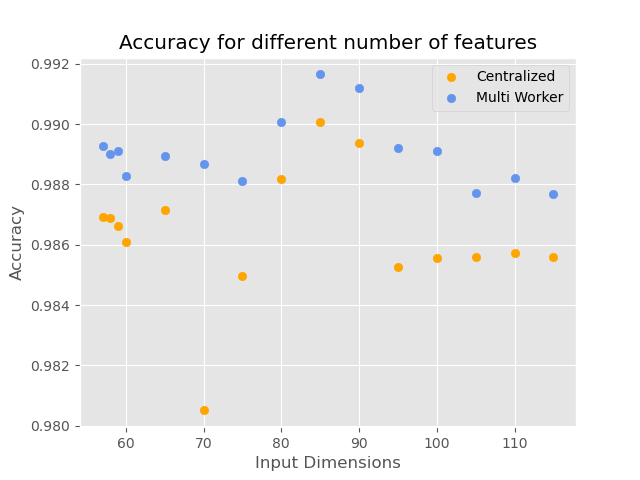
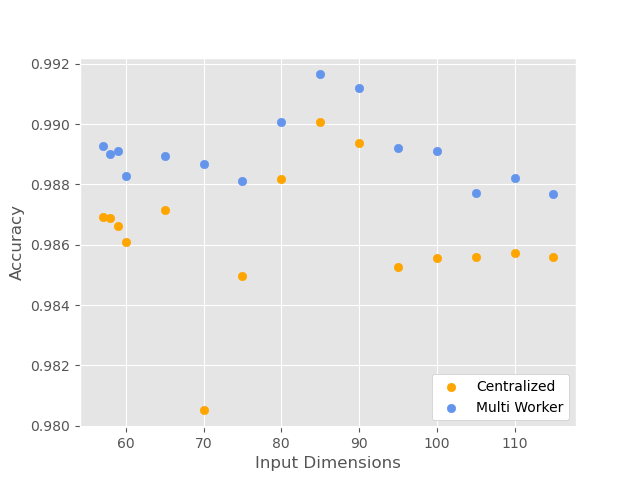
updated some perfromance figs to improve legend

Changed region(s): [[0.1875, 0.0625, 0.875, 0.2188], [0.6562, 0.7812, 0.9062, 0.875], [0.6875, 0.1562, 0.7188, 0.2188]]

diff --git a/anomaly-detection/MatpltlibGen/figMaker.py b/anomaly-detection/MatpltlibGen/figMaker.py
@@ -92,6 +92,7 @@ def precision_plt(plt):
     xlistp = xList
     ylistp = centPrecision
     precision.plot(xlistp, ylistp)
+    precision.legend(loc="lower right", framealpha=1.0, facecolor='white')
     precision.savefig(f"cent_precision_e50_lr0001_bs128.png")
     print("cent precision")
 
@@ -108,6 +109,7 @@ def recall_plt(plt):
     xlistr = xList
     ylistr = centRecall
     recall.plot(xlistr, ylistr)
+    recall.legend(loc="lower right", framealpha=1.0, facecolor='white')
     recall.savefig(f"cent_recall_e50_lr0001_bs128.png")
     print("cent recall")
 
@@ -124,6 +126,7 @@ def f1_plt(plt):
     xlistf = xList
     ylistf = centF1
     f1.plot(xList, multiF1)
+    f1.legend(loc="lower right", framealpha=1.0, facecolor='white')
     f1.savefig(f"cent_f1_e50_lr0001_bs128.png")
     print("cent F-measure")
 
@@ -133,7 +136,7 @@ def accuracy_plt_multi(plt):
     plt.style.use("ggplot")
     title = "Accuracy"
     acc = plt
-    acc.title(f"{title} for different number of features")
+    acc.title("")#(f"{title}")# for different number of features")
     acc.xlabel("Input Dimensions")
     acc.ylabel(f"{title}")
     half = len(xList) >> 1
@@ -144,7 +147,7 @@ def accuracy_plt_multi(plt):
     #acc.plot(xlista, ylistmulti, label="Multi Worker")
     acc.scatter(xlista, ylista, c="orange", label="Centralized")
     acc.scatter(xlista, ylistmulti, c="cornflowerblue", label="Multi Worker")
-    acc.legend(loc="best")
+    acc.legend(loc="lower right", framealpha=1.0, facecolor='white')
     acc.savefig(f"comparison_scatter_acc_e50_lr001_bs128.png")
     print("cent accuracy")
 
@@ -154,7 +157,7 @@ def precision_plt_multi(plt):
     title = "Precision"
     precision = plt
     precision.style.use("ggplot")
-    precision.title(f"{title} for different number of features")
+    precision.title("")#(f"{title}")# for different number of features")
     precision.xlabel("Input Dimension")
     precision.ylabel(f"{title}")
     xlistp = xList
@@ -164,7 +167,7 @@ def precision_plt_multi(plt):
     #precision.plot(xlistp, ylistmulti, label="Multi Worker")
     precision.scatter(xlistp, ylistp, c="orange", label="Centralized")
     precision.scatter(xlistp, ylistmulti, c="cornflowerblue", label="Multi Worker")
-    precision.legend(loc="best")
+    precision.legend(loc="lower right", framealpha=1.0, facecolor='white')
     precision.savefig(f"comparison_scatter_precision_e50_lr0001_bs128.png")
     print("multi precision")
 
@@ -174,8 +177,8 @@ def recall_plt_multi(plt):
     title = "Recall"
     recall = plt
     recall.style.use("ggplot")
-    recall.title(f"{title} for different number of features")
-    recall.xlabel("Epochs")
+    recall.title("")#(f"{title}")# for different number of features")
+    recall.xlabel("Input Dimensions")
     recall.ylabel(f"{title}")
     half = len(xList) >> 1
     xlistr = xList[half:]
@@ -185,7 +188,7 @@ def recall_plt_multi(plt):
     #recall.plot(xlistr, ylistmulti, label="Multi Worker")
     recall.scatter(xlistr, ylistr, c="orange", label="Centralized")
     recall.scatter(xlistr, ylistmulti, c="cornflowerblue", label="Multi Worker")
-    recall.legend(loc="best")
+    recall.legend(loc="lower right", framealpha=1.0, facecolor='white')
     recall.savefig(f"comparison_scatter_recall_e50_lr0001_bs128.png")
     print("Multi recall")
 
@@ -195,8 +198,8 @@ def f1_plt_multi(plt):
     title = "F-Measure"
     f1 = plt
     f1.style.use("ggplot")
-    f1.title(f"{title} for different number of features")
-    f1.xlabel("Epochs")
+    f1.title("")#f"{title}")# per number of features")
+    f1.xlabel("Input Dimnesions")
     f1.ylabel(f"{title}")
     half = len(xList) >> 1
     xlistf = xList[half:]
@@ -206,7 +209,7 @@ def f1_plt_multi(plt):
     #f1.plot(xlistf, ylistmulti, label="Multi Worker")
     f1.scatter(xlistf, ylistf, c="orange", label="Centralized")
     f1.scatter(xlistf, ylistmulti, c="cornflowerblue", label="Multi Worker")
-    f1.legend(loc="best")
+    f1.legend(loc="lower right", framealpha=1.0, facecolor='white')
     f1.savefig(f"comparison_scatter_f1_e50_lr0001_bs128.png")
     print("Multi F-measure")
 
@@ -252,8 +255,8 @@ def main(argv):
 
     matplotlib.use("pdf")
     #accuracy_plt_multi(plt)
-    f1_plt_multi(plt)
-    #recall_plt_multi(plt)
+    #f1_plt_multi(plt)
+    recall_plt_multi(plt)
     #precision_plt_multi(plt)
     #pandas_dataframe_print(plt)
 
